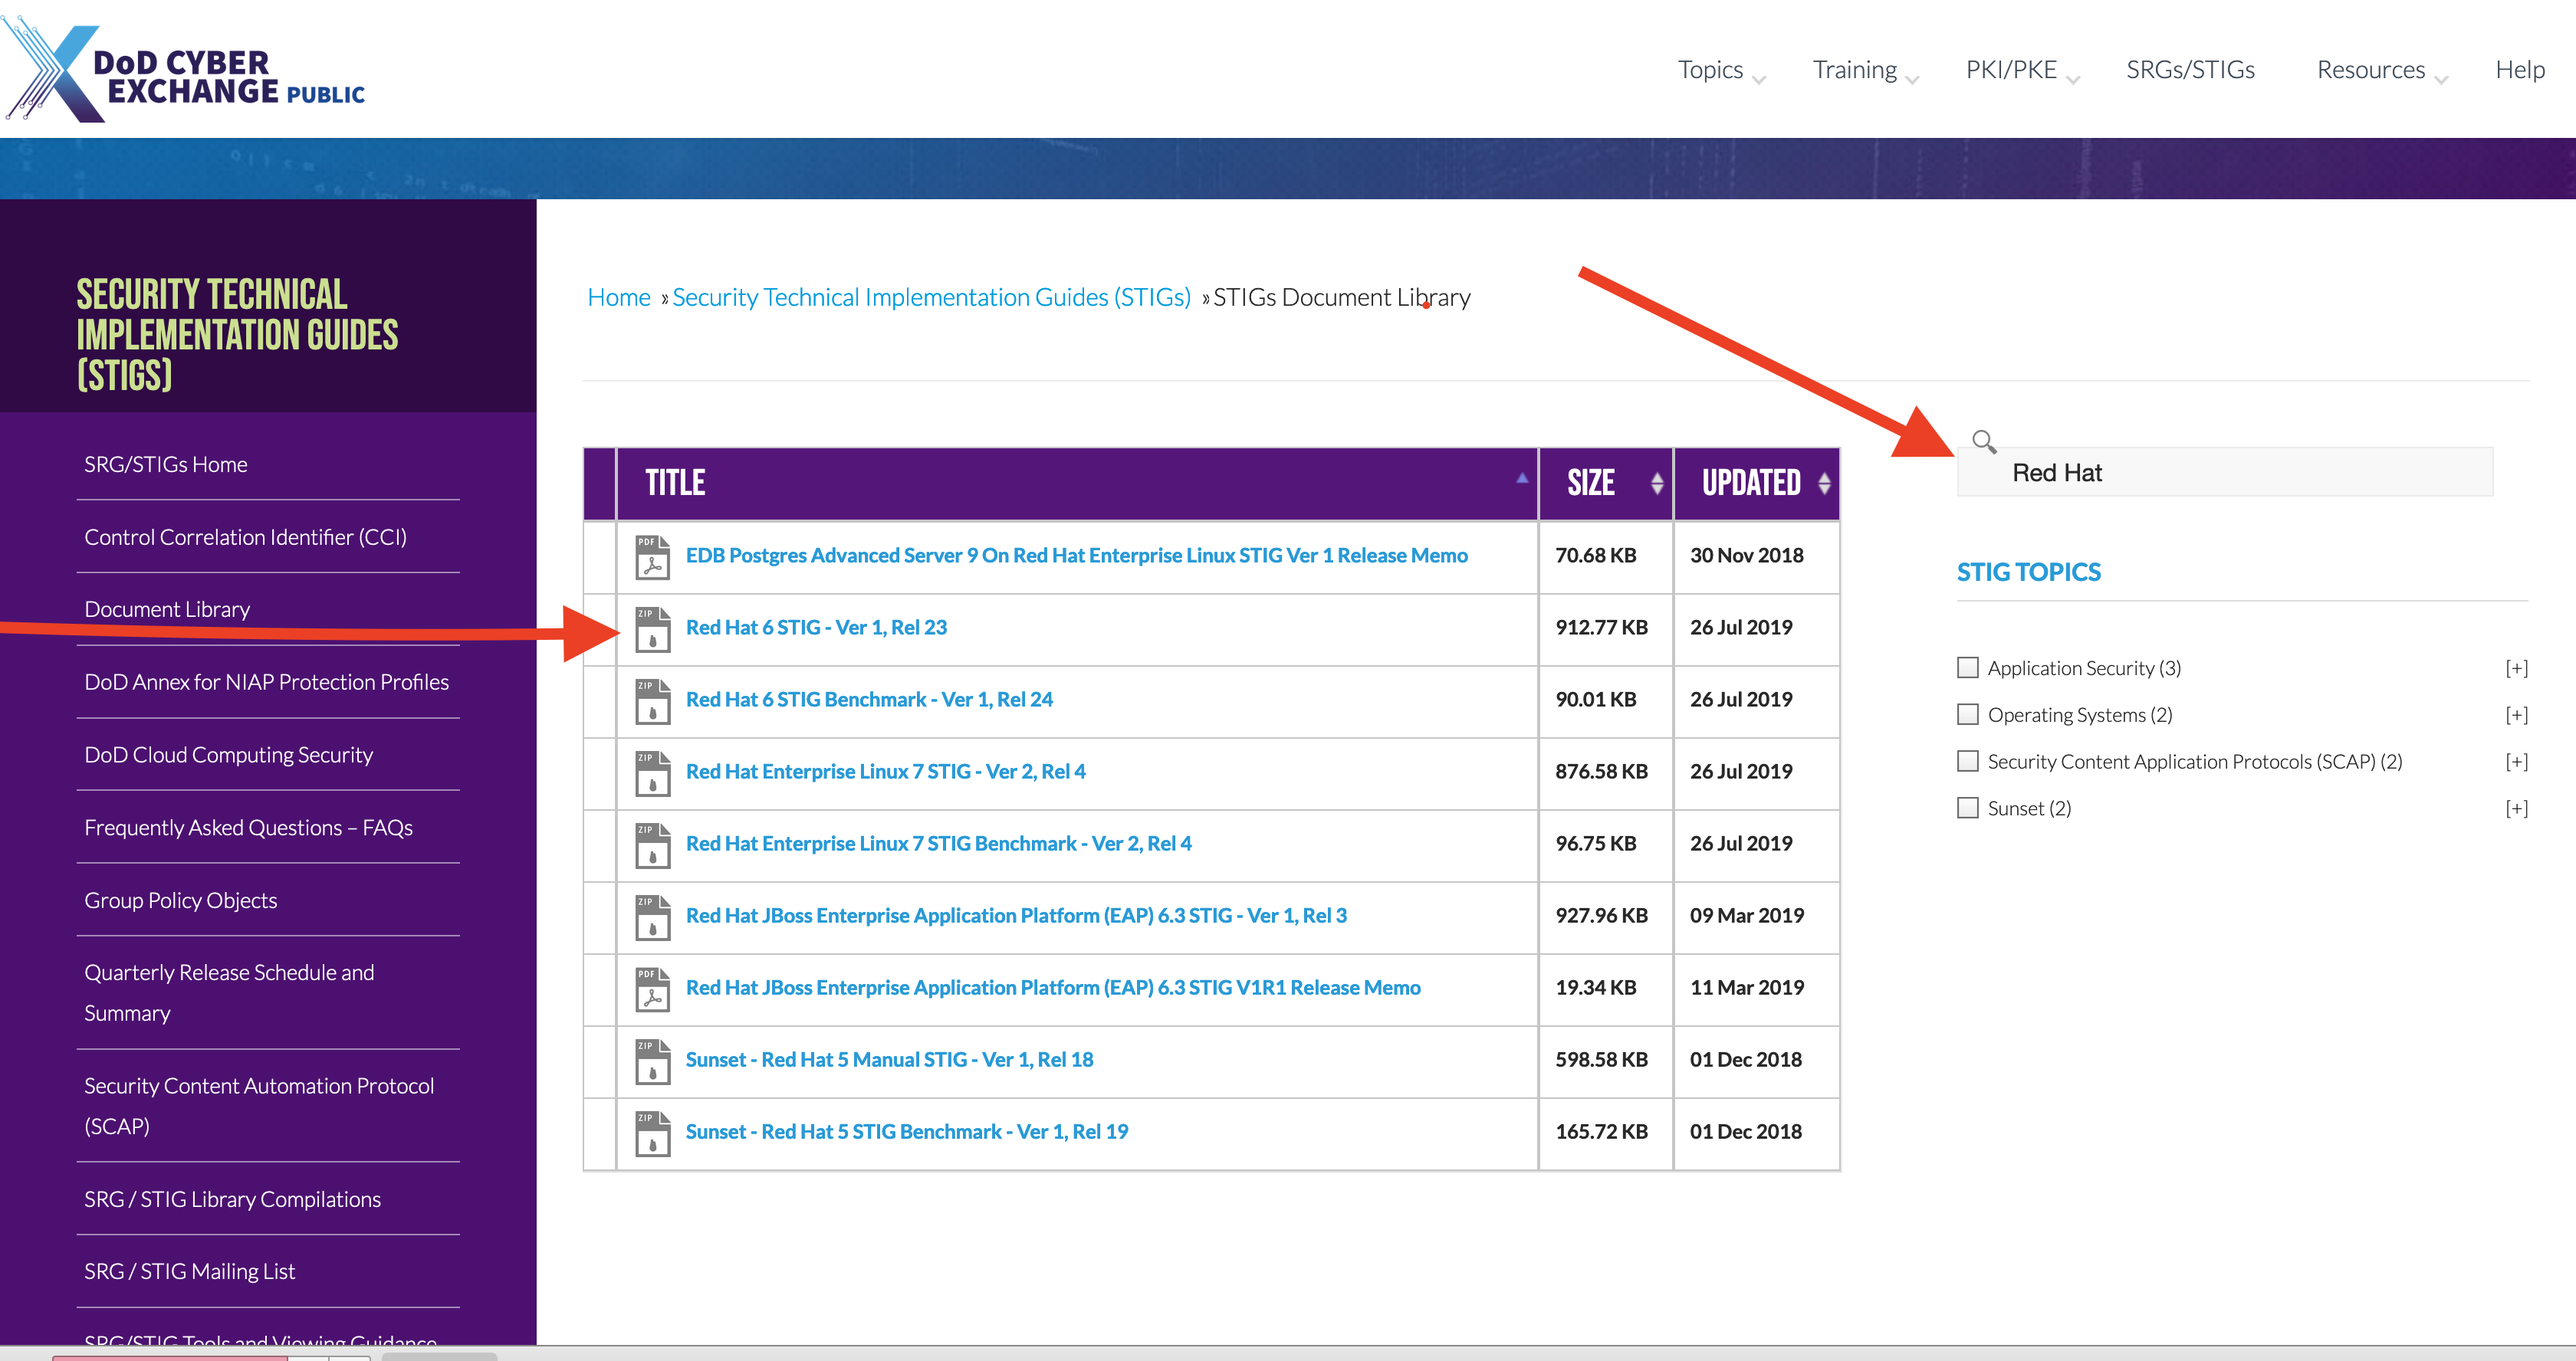
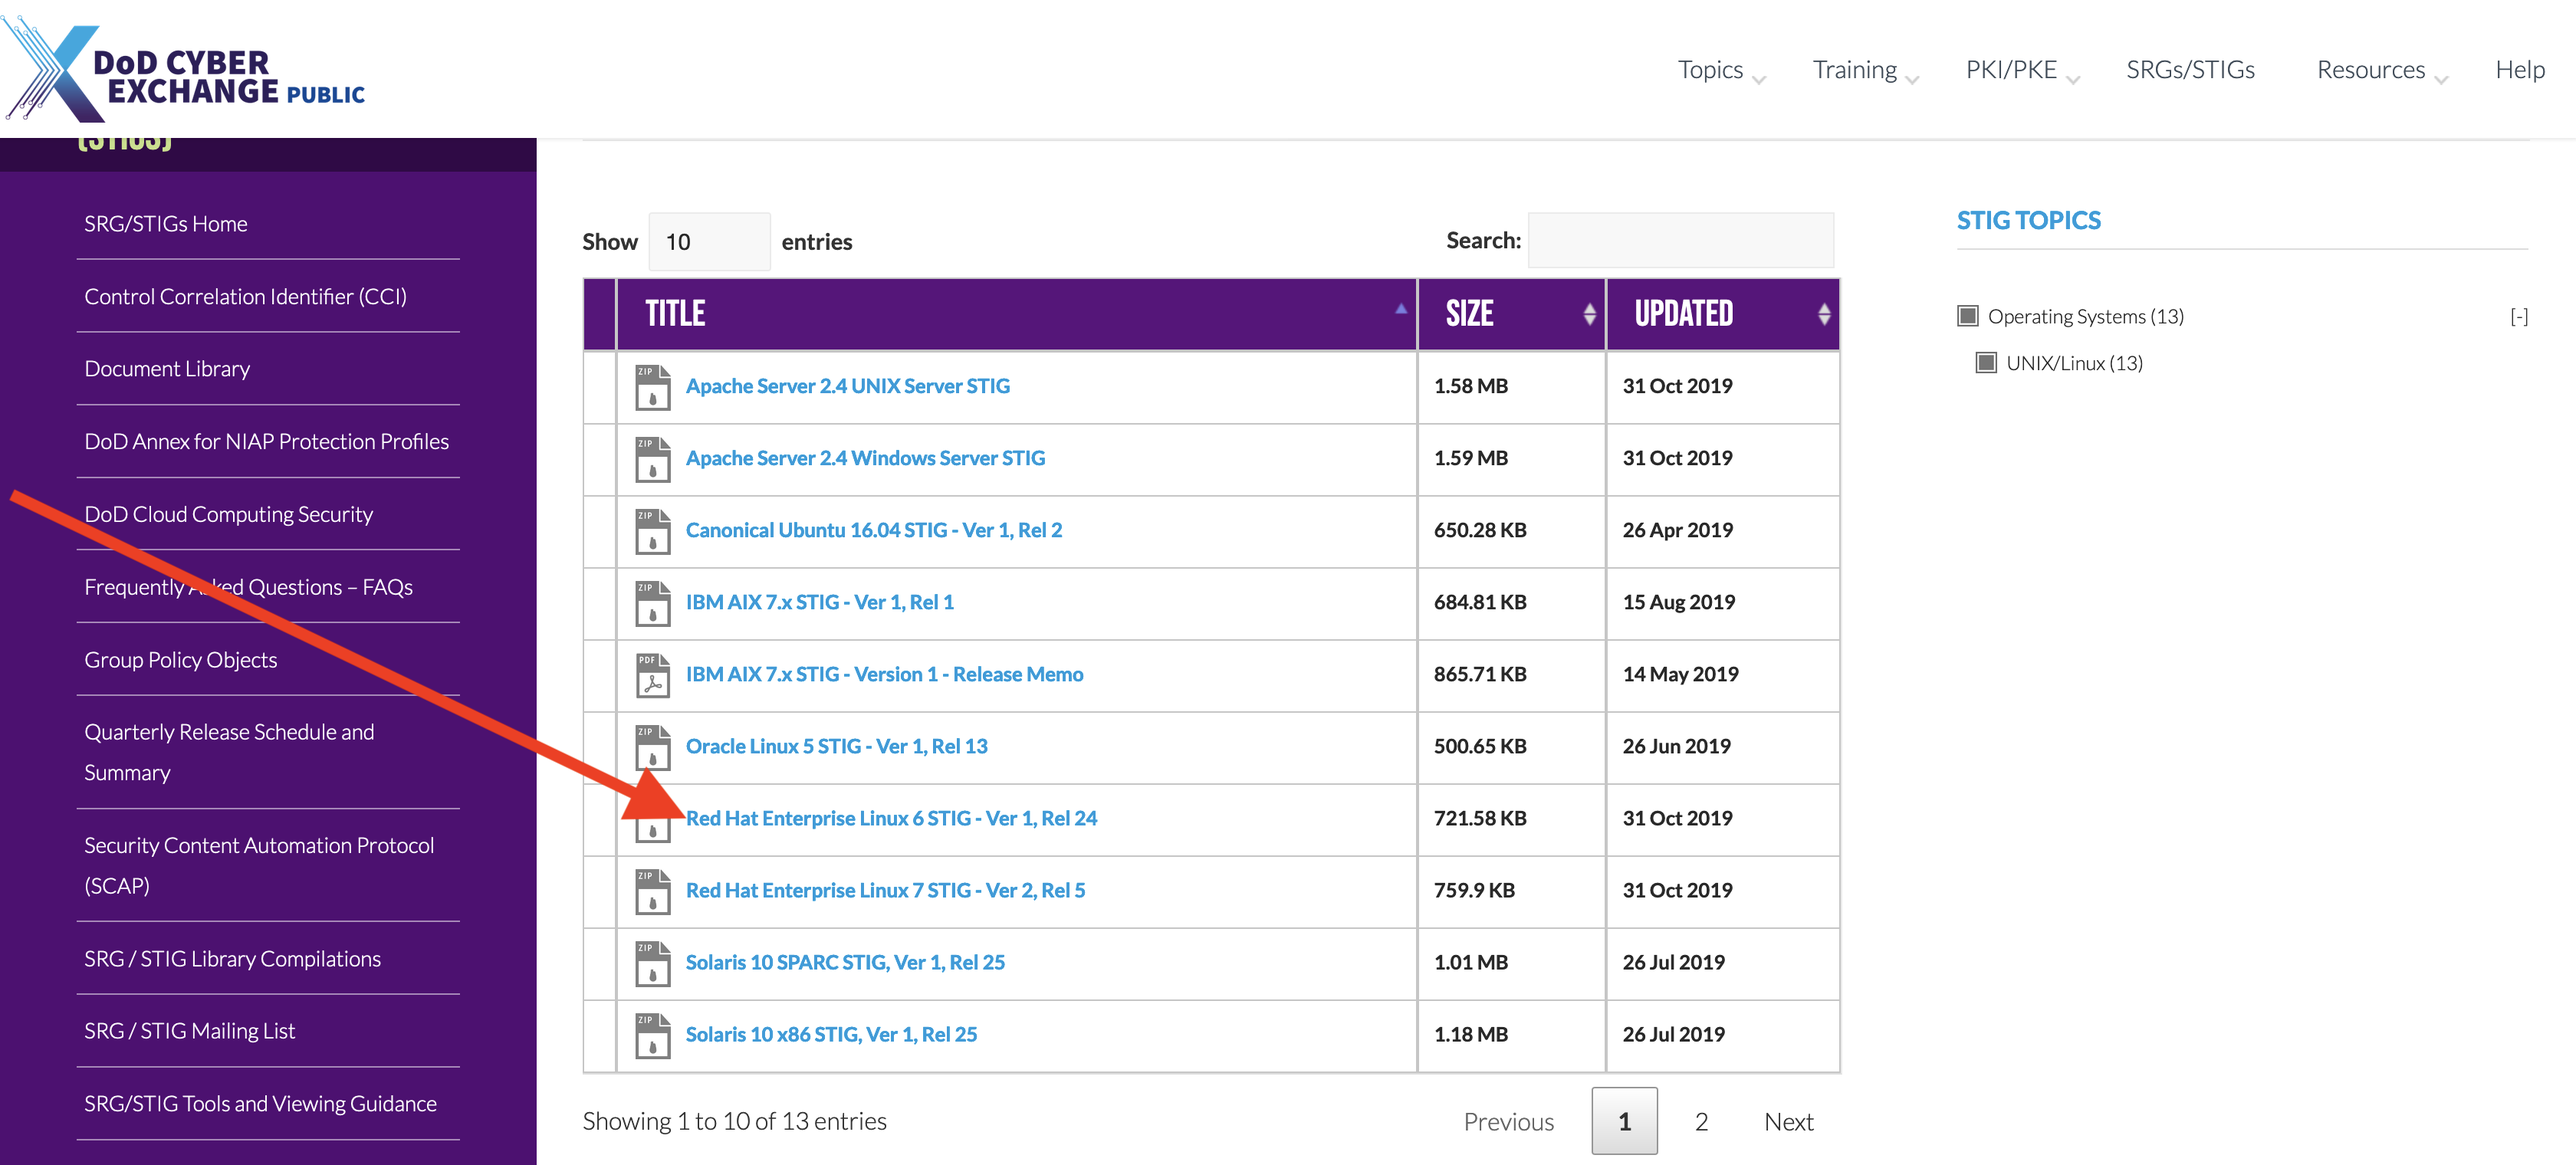
Update image and RHEL6 STIG download content

diff --git a/docs/course/9.md b/docs/course/9.md
@@ -11,7 +11,7 @@ Download the latest STIG Viewer located here [STIG Viewer](https://public.cyber.
 
 ![Alt text](/Download_STIG_Viewer.png)
 
-Download the `Red Hat 6 STIG - Ver 1, Rel 21` located here [RHEL6 STIG Download](https://public.cyber.mil/stigs/downloads/?_search_stigs=Red%20Hat)
+Download the `Red Hat 6 STIG - Ver 1, Rel 21` located here [RHEL6 STIG Download](https://public.cyber.mil/stigs/downloads/?_dl_facet_stigs=operating-systems%2Cunix-linux)
 
 ![Alt text](/Download_STIG.png)
 
